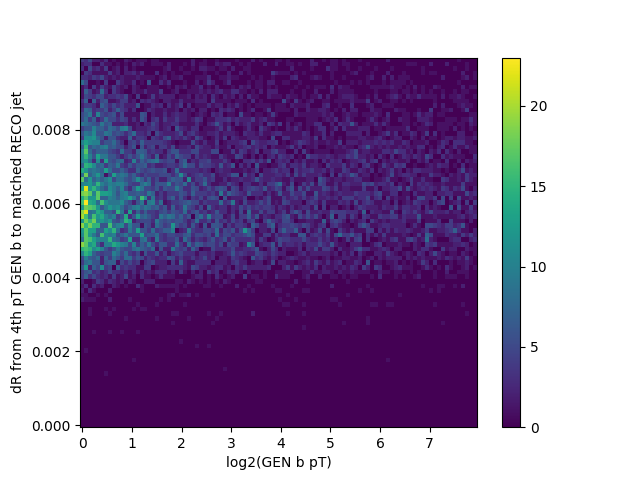
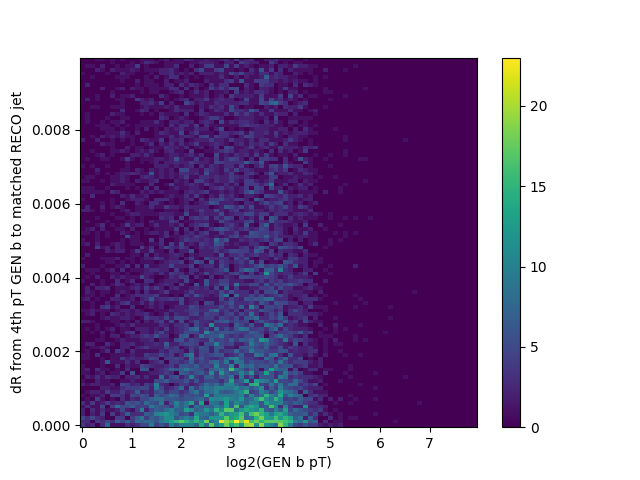
Fixed issue where plots were being displayed with flipped axis

Changed region(s): [[0.125, 0.125, 0.75, 0.9062], [0.7188, 0.1562, 0.75, 0.1875], [0.6875, 0.1875, 0.7188, 0.2188]]

diff --git a/analib.py b/analib.py
@@ -104,7 +104,7 @@ class Hist2d(object):
         return s
 
     def make(s):
-        out = plt.imshow(s.hs[0],extent=(s.bounds[0][0],s.bounds[0][1],s.bounds[1][0],s.bounds[1][1]),aspect='auto')
+        out = plt.imshow(s.hs[0].T[::-1],extent=(s.bounds[0][0],s.bounds[0][1],s.bounds[1][0],s.bounds[1][1]),aspect='auto',origin='upper')
         plt.colorbar()
         return out    
 
